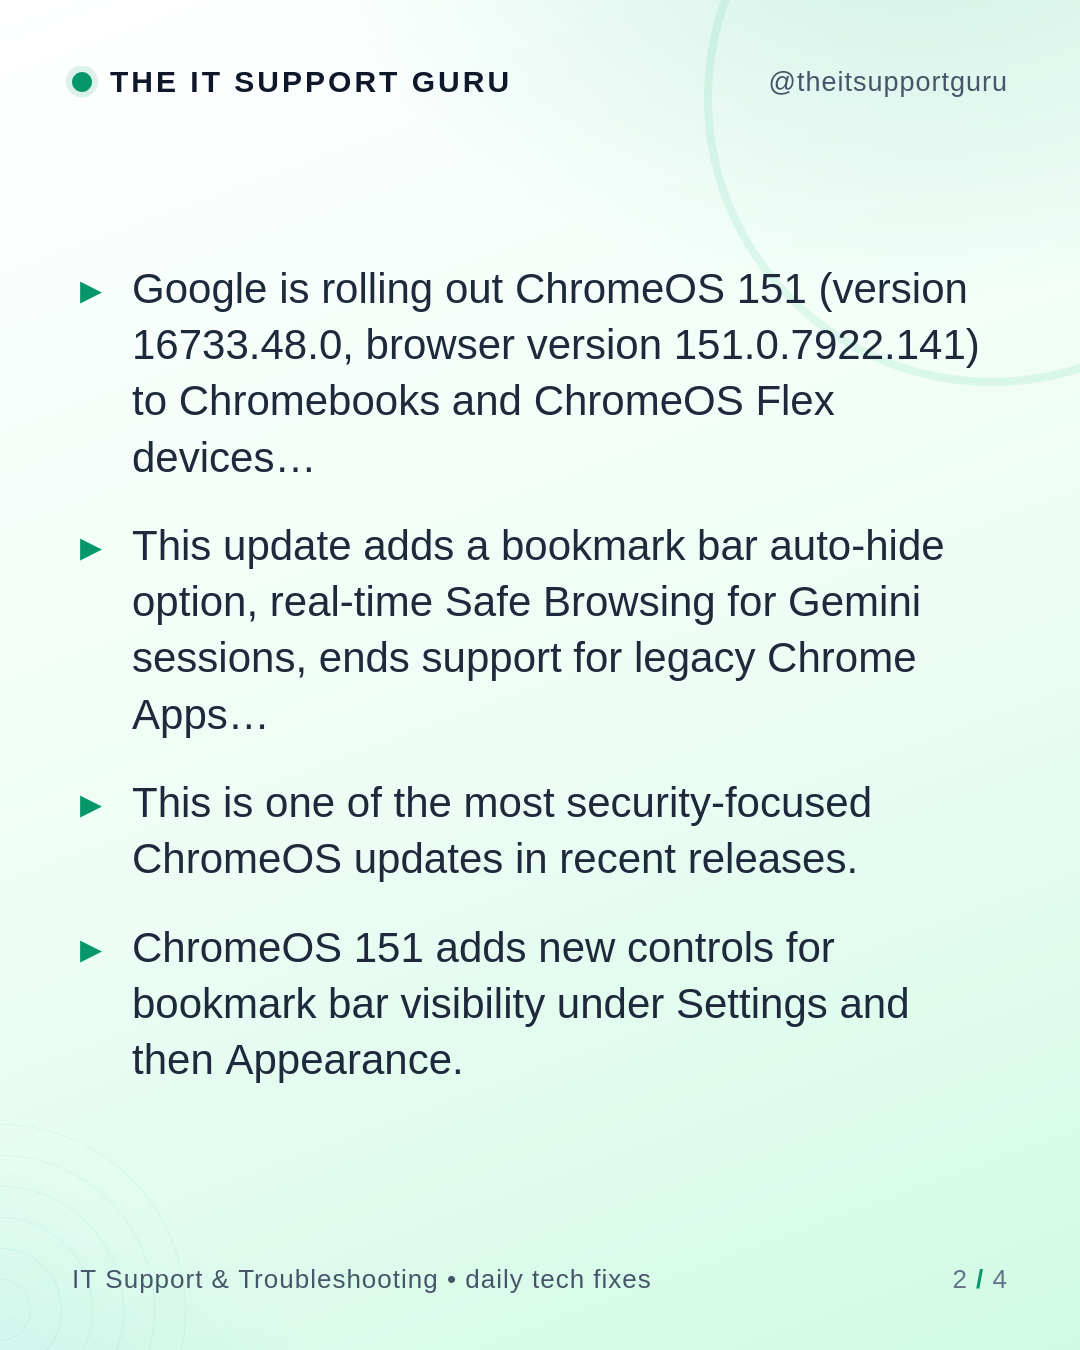
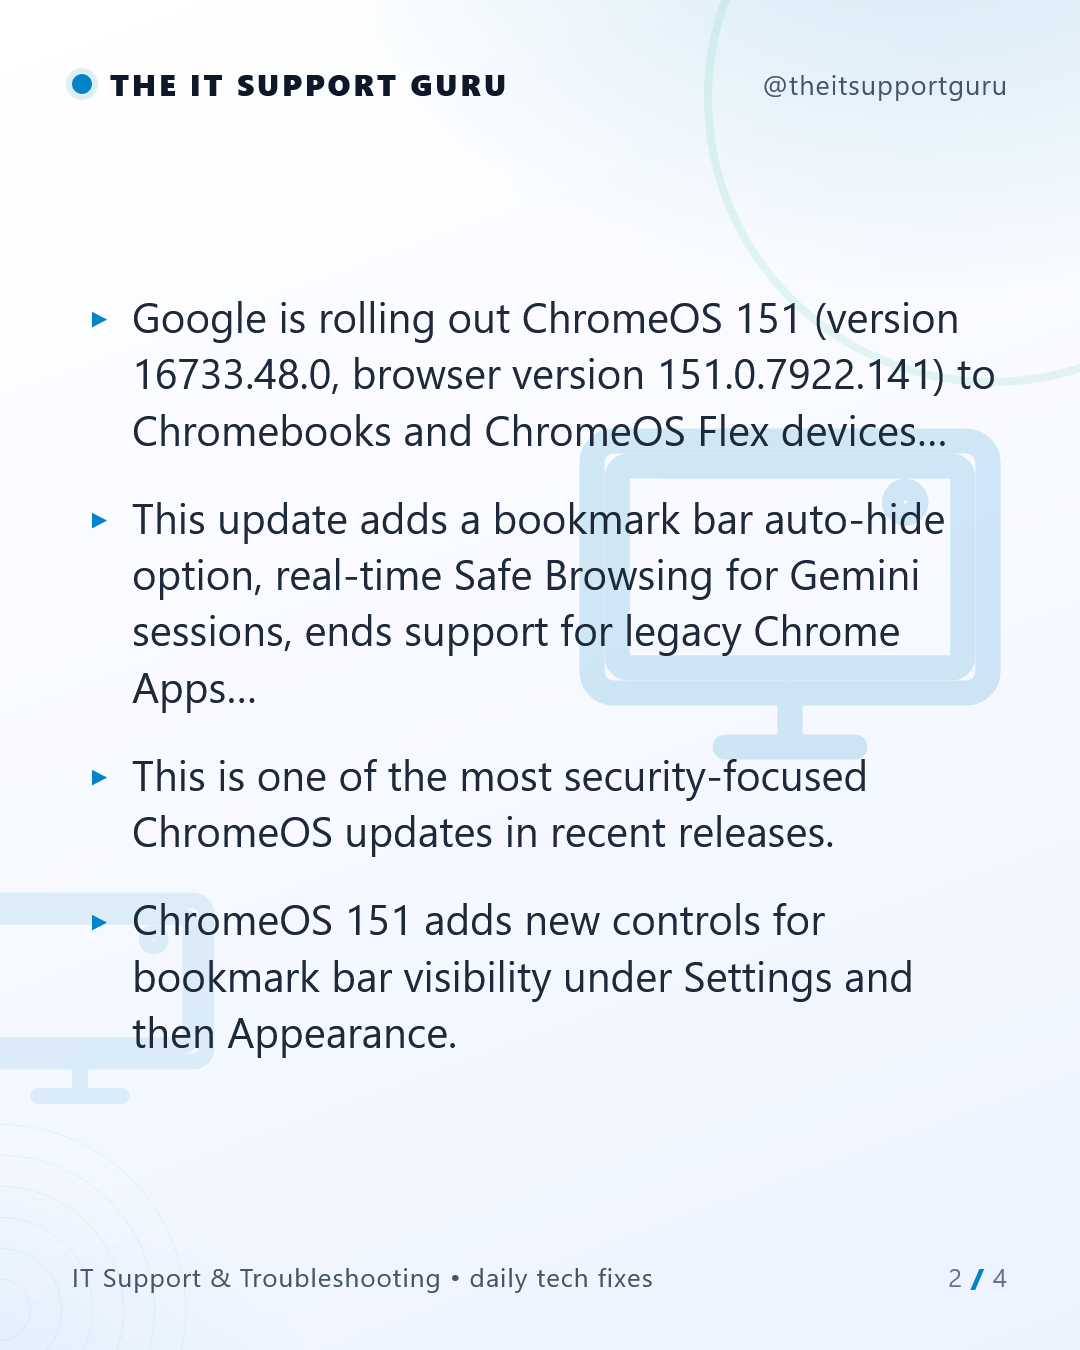
ig-render: topic-matched backgrounds for each post (13 subject motifs, headline-driven)

diff --git a/src/ig-render.js b/src/ig-render.js
@@ -15,8 +15,81 @@ function esc(s) {
     .replace(/"/g, "&quot;");
 }
 
-// Per-niche background themes: each subject matter gets its own light, high-
-// contrast backdrop + a faint motif, so posts read as belonging to their topic.
+// Topic-matched background themes. A post's headline drives the backdrop: the
+// keyword that matches the story chooses a subject motif (chip, phone, shield…)
+// plus its accent. Falls back to the niche theme when nothing matches.
+const svgWrap = (accent, inner) =>
+  `<svg viewBox="0 0 200 200" fill="none" stroke="${accent}" stroke-width="7" stroke-linecap="round" stroke-linejoin="round">${inner}</svg>`;
+
+const TOPIC_THEMES = [
+  {
+    re: /(breach|hack|ransomware|malware|phishing|vulnerab|zero.day|exploit|password|2fa|patch|attack|steal)/i,
+    accent: "#DC2626",
+    svg: (a) => svgWrap(a, `<path d="M100 24 L162 50 V95 C162 136 138 166 100 180 C62 166 38 136 38 95 V50 Z"/><rect x="82" y="86" width="36" height="26" rx="5"/><path d="M90 86 V74 a10 10 0 0 1 20 0 V86"/>`)
+  },
+  {
+    re: /(\bai\b|gpt|llm|model|agent|neural|openai|anthropic|gemini|copilot|intelligence|machine.learning|bot)/i,
+    accent: "#6366F1",
+    svg: (a) => svgWrap(a, `<circle cx="55" cy="55" r="13"/><circle cx="145" cy="42" r="13"/><circle cx="150" cy="152" r="13"/><circle cx="50" cy="146" r="13"/><circle cx="100" cy="100" r="16"/><path d="M67 62 L88 92 M133 50 L112 90 M140 140 L112 110 M62 134 L88 111 M100 84 V84"/>`)
+  },
+    {
+    re: /(battery|charging|charge|usb.c|power|mah|fast.charge)/i,
+    accent: "#16A34A",
+    svg: (a) => svgWrap(a, `<rect x="45" y="70" width="105" height="60" rx="10"/><rect x="150" y="86" width="14" height="28" rx="5"/><path d="M84 78 L68 100 H88 L76 122"/>`)
+  },
+  {
+    re: /(wifi|router|signal|mesh|network)/i,
+    accent: "#0EA5E9",
+    svg: (a) => svgWrap(a, `<path d="M52 112 a48 48 0 0 1 96 0"/><path d="M67 96 a33 33 0 0 1 66 0"/><path d="M82 80 a18 18 0 0 1 36 0"/><circle cx="100" cy="128" r="8"/>`)
+  },
+  {
+    re: /(camera|photo|lens|sensor|image)/i,
+    accent: "#7C3AED",
+    svg: (a) => svgWrap(a, `<rect x="42" y="58" width="116" height="84" rx="16"/><circle cx="100" cy="100" r="26"/><circle cx="100" cy="100" r="11"/><rect x="64" y="58" width="30" height="14" rx="5"/><path d="M128 70 v-8"/>`)
+  },
+  {
+    re: /(cpu|gpu|chip|processor|ryzen|intel|amd|nvidia|rtx|ssd|ram|benchmark|core|silicon|semiconductor)/i,
+    accent: "#0D9488",
+    svg: (a) => svgWrap(a, `<rect x="60" y="60" width="80" height="80" rx="10"/><path d="M78 60 V34 M100 60 V34 M122 60 V34 M78 140 V166 M100 140 V166 M122 140 V166 M60 78 H34 M60 100 H34 M60 122 H34 M140 78 H166 M140 100 H166 M140 122 H166"/><rect x="80" y="80" width="40" height="40" rx="5"/>`)
+  },
+  {
+    re: /(cloud|server|data.center|datacenter|kubernetes|docker|container|aws|azure|storage|infra|uptime|devops|sre)/i,
+    accent: "#2563EB",
+    svg: (a) => svgWrap(a, `<ellipse cx="105" cy="135" rx="72" ry="24"/><circle cx="78" cy="112" r="24"/><circle cx="118" cy="100" r="29"/><circle cx="150" cy="120" r="18"/><path d="M45 168 h110"/>`)
+  },
+  {
+    re: /(habit|routine|ops|checklist|daily|tip|how.to|guide|setup|tutorial|reset|fix|cleanup|sanity)/i,
+    accent: "#059669",
+    svg: (a) => svgWrap(a, `<rect x="45" y="55" width="110" height="95" rx="8"/><path d="M62 78 L72 88 L90 68"/><rect x="100" y="72" width="38" height="9" rx="4.5"/><path d="M62 108 L72 118 L90 98"/><rect x="100" y="102" width="38" height="9" rx="4.5"/><path d="M62 128 L72 138 L90 118"/><rect x="100" y="126" width="38" height="9" rx="4.5"/>`)
+  },
+  {
+    re: /(deal|freebie|discount|sale|coupon|free|app.of.the.day|giveaway)/i,
+    accent: "#EA6A12",
+    svg: (a) => svgWrap(a, `<path d="M50 42 H158 L164 98 L102 168 L40 106 Z"/><circle cx="136" cy="74" r="9"/>`)
+  },
+  {
+    re: /(keyboard|typing|shortcut|keys|touchpad)/i,
+    accent: "#475569",
+    svg: (a) => svgWrap(a, `<rect x="30" y="85" width="140" height="55" rx="8"/><path d="M50 100 h18 M78 100 h18 M106 100 h18 M134 100 h12 M50 120 h18 M78 120 h18 M106 120 h18 M134 120 h12"/>`)
+  },
+  {
+    re: /(apple|mac|macos|ios|ipad|app.store|siri|macbook|apple.silicon)/i,
+    accent: "#0EA5E9",
+    svg: (a) => svgWrap(a, `<circle cx="86" cy="106" r="30"/><circle cx="114" cy="106" r="30"/><path d="M86 76 A34 34 0 0 1 114 76"/><path d="M100 46 v20"/><path d="M100 46 q12 -4 22 -12"/>`)
+  },
+  {
+    re: /(chrome|browser|bookmark|chromebook|chromeos|windows|monitor|desktop|laptop|display|screen)/i,
+    accent: "#0284C7",
+    svg: (a) => svgWrap(a, `<rect x="45" y="35" width="110" height="70" rx="6"/><rect x="52" y="42" width="96" height="56" rx="3"/><path d="M100 105 V120 M82 120 h36"/><circle cx="132" cy="52" r="3"/>`)
+  },
+  {
+    re: /(phone|pixel|galaxy|iphone|android|samsung|redmi|honor|fold|smartphone|tablet|watch|wearable|gadget)/i,
+    accent: "#F59E0B",
+    svg: (a) => svgWrap(a, `<rect x="62" y="28" width="76" height="144" rx="18"/><circle cx="100" cy="46" r="5"/><path d="M84 118 l12 12 22 -26"/><path d="M88 158 h24"/>`)
+  }
+];
+
+// Per-niche fallback background themes (used when the headline matches nothing).
 const NICHE_THEMES = {
   ai: {
     cls: "theme-ai",
@@ -70,11 +143,19 @@ const NICHE_THEMES = {
 };
 
 export function cardHtml(post, slide, index, total) {
+  const hayTitle = `${post.title || ""} ${post.subtitle || ""} ${post.slideText || ""}`;
+  const hayNiche = `${post.niche || ""} ${post.nicheLabel || ""}`;
+  const topic = TOPIC_THEMES.find((t) => t.re.test(hayTitle)) || TOPIC_THEMES.find((t) => t.re.test(hayNiche));
   const theme = NICHE_THEMES[post.niche] || {};
-  const accent = theme.accent || post.accent || config.accentColor || "#0E9384";
+  const accent = (topic && topic.accent) || theme.accent || post.accent || config.accentColor || "#0E9384";
   const bodyTag = theme.cls ? ` class="${theme.cls}"` : "";
   const bodySel = theme.cls ? `body.${theme.cls}` : "body";
-  const bg = theme.bg || `radial-gradient(1100px 760px at 88% -12%, ${accent}1f, transparent 62%),
+  const motifSvg = topic ? topic.svg(accent) : "";
+  const bg = topic
+    ? `radial-gradient(1000px 700px at 85% -10%, ${accent}2e, transparent 62%),
+      radial-gradient(820px 620px at -12% 112%, ${accent}1c, transparent 60%),
+      linear-gradient(160deg, #FFFFFF 0%, #F6F9FF 55%, #ECF3FF 100%)`
+    : theme.bg || `radial-gradient(1100px 760px at 88% -12%, ${accent}1f, transparent 62%),
       radial-gradient(900px 620px at -12% 112%, ${accent}12, transparent 60%),
       linear-gradient(160deg, #FFFFFF 0%, #F4F8FF 55%, #EBF3FF 100%)`;
   const brand = (config.brand || "IT STUDIO").toUpperCase();
@@ -131,6 +212,8 @@ export function cardHtml(post, slide, index, total) {
     position: relative;
   }
   .motif { position: absolute; inset: 0; pointer-events: none; z-index: 0; }
+  .motif svg { position: absolute; right: -70px; top: 50%; transform: translateY(-50%); width: 720px; height: 720px; opacity: .16; }
+  .motif svg.motif-2 { right: auto; left: -150px; bottom: -160px; top: auto; width: 460px; height: 460px; opacity: .10; }
   .motif::before, .motif::after { content: ""; position: absolute; border-radius: 50%; }
   .motif::before { width: 560px; height: 560px; right: -200px; top: -190px; border: 88px solid ${accent}0d; }
   .motif::after { width: 460px; height: 460px; left: -190px; bottom: -150px; border: 64px solid ${accent}0a; }
@@ -205,7 +288,7 @@ export function cardHtml(post, slide, index, total) {
   .bottom .niche { color: #475569; }
   .bottom .count span { color: ${accent}; font-weight: 800; }
 </style></head><body${bodyTag}>
-  <div class="motif"></div>
+  <div class="motif">${motifSvg}${motifSvg ? motifSvg.replace("<svg ", "<svg class=\"motif-2\" ") : ""}</div>
   <div class="top">
     <div class="brand"><span class="dot"></span>${brand}</div>
     <div class="handle">${esc(handle)}</div>
